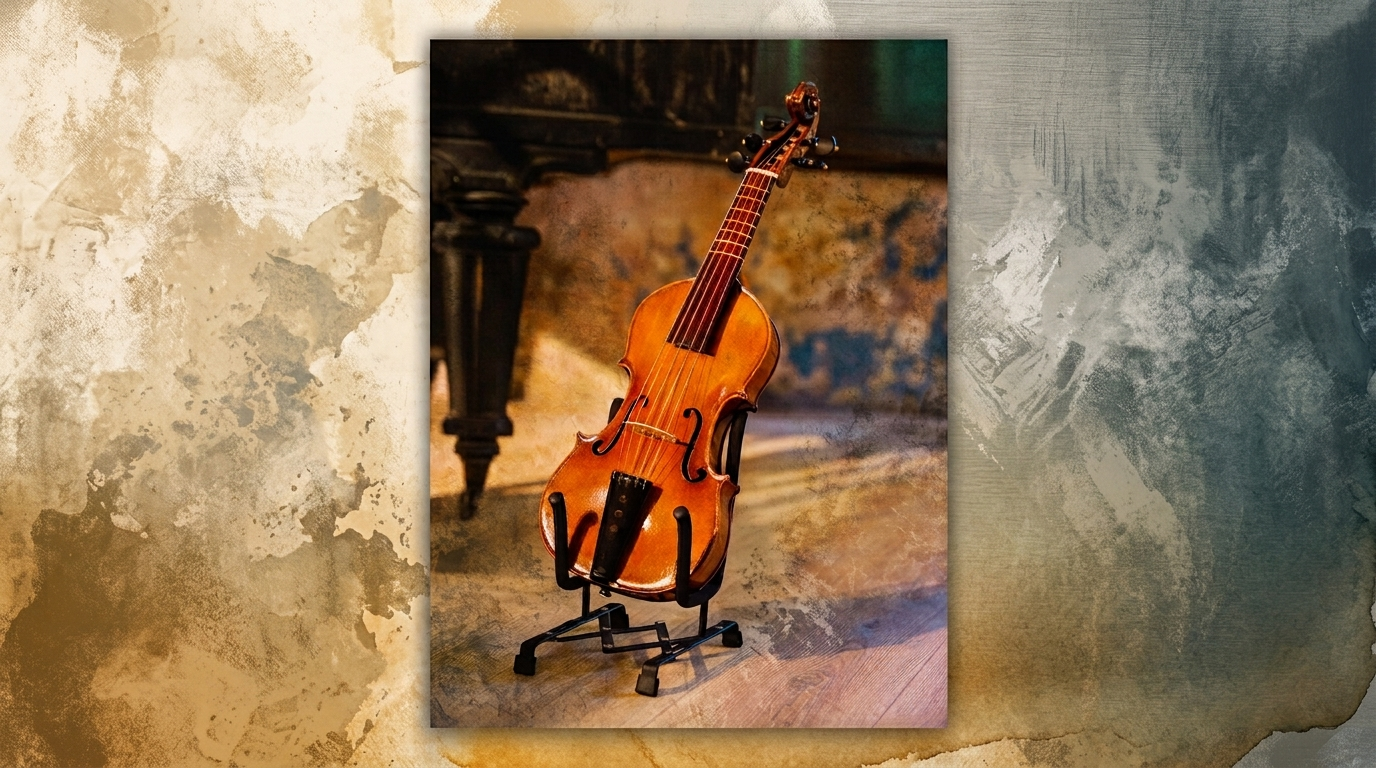
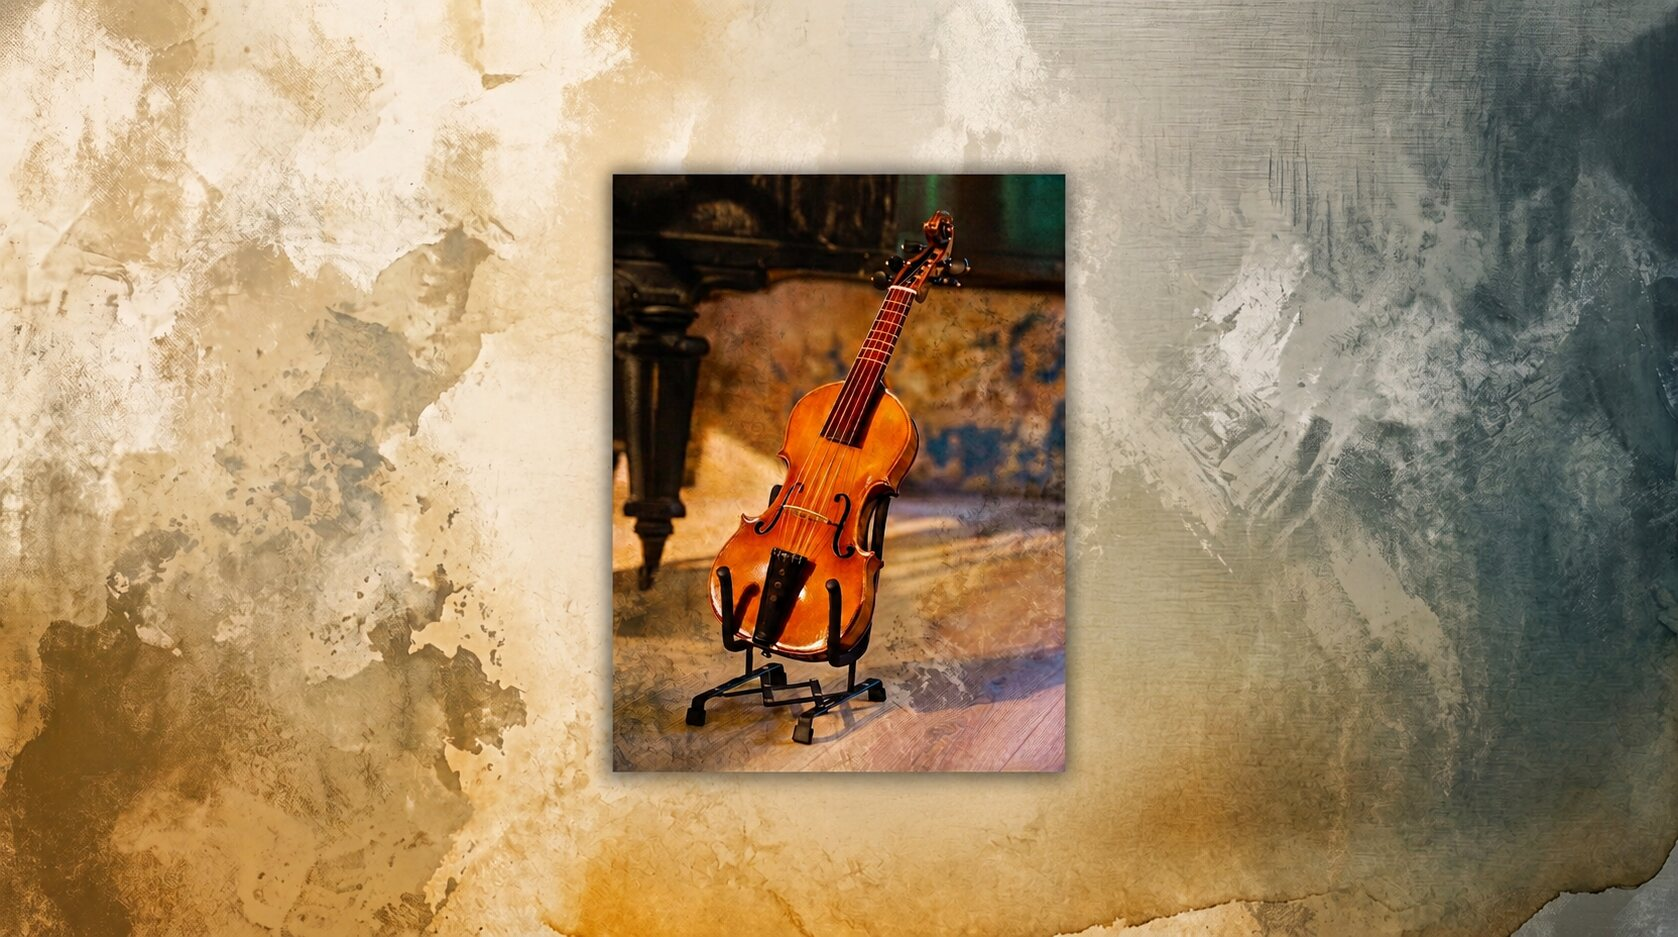
Fix caricamento imgs troppo pesanti

diff --git a/quinton-de.html b/quinton-de.html
@@ -103,7 +103,7 @@
     @media (max-width: 576px) {
       .footer-inner { justify-content: center; text-align: center; }
     }
-    #quinton { background-image: linear-gradient(rgba(23,25,27,0.5), rgba(23,25,27,0.5)), url("imgs/Bianca/Foto/quinton.png"); aspect-ratio: 1678 / 937; min-height: 0; }
+    #quinton { background-image: linear-gradient(rgba(23,25,27,0.5), rgba(23,25,27,0.5)), url("imgs/Bianca/Foto/quinton.jpg"); aspect-ratio: 1678 / 937; min-height: 0; }
     /* Touch ohne Hover (iPad, Android-Tablets, usw.): background-attachment:fixed ist auf
        diesen Geräten unabhängig von der Bildschirmbreite unzuverlässig — Hover-Fähigkeit
        testen statt die Größe jedes Modells zu erraten (die bisherige 1280px-Grenze schloss

diff --git a/quinton-en.html b/quinton-en.html
@@ -102,7 +102,7 @@
     @media (max-width: 576px) {
       .footer-inner { justify-content: center; text-align: center; }
     }
-    #quinton { background-image: linear-gradient(rgba(23,25,27,0.5), rgba(23,25,27,0.5)), url("imgs/Bianca/Foto/quinton.png"); aspect-ratio: 1678 / 937; min-height: 0; }
+    #quinton { background-image: linear-gradient(rgba(23,25,27,0.5), rgba(23,25,27,0.5)), url("imgs/Bianca/Foto/quinton.jpg"); aspect-ratio: 1678 / 937; min-height: 0; }
     /* Touch without hover (iPad, Android tablets, etc.): background-attachment:fixed is
        unreliable on these devices regardless of screen width — test hover capability
        instead of guessing each model's size (the previous 1280px cap excluded e.g. the

diff --git a/quinton-it.html b/quinton-it.html
@@ -102,7 +102,7 @@
     @media (max-width: 576px) {
       .footer-inner { justify-content: center; text-align: center; }
     }
-    #quinton { background-image: linear-gradient(rgba(23,25,27,0.5), rgba(23,25,27,0.5)), url("imgs/Bianca/Foto/quinton.png"); aspect-ratio: 1678 / 937; min-height: 0; }
+    #quinton { background-image: linear-gradient(rgba(23,25,27,0.5), rgba(23,25,27,0.5)), url("imgs/Bianca/Foto/quinton.jpg"); aspect-ratio: 1678 / 937; min-height: 0; }
     /* Touch senza hover (iPad, tablet Android, ecc.): background-attachment:fixed è
        inaffidabile su questi dispositivi qualunque sia la larghezza dello schermo —
        testare la capacità di hover invece di indovinare le dimensioni di ogni modello

diff --git a/index.html b/index.html
@@ -29,7 +29,7 @@
             padding: 0;
             font-family: 'Work Sans', sans-serif;
             font-weight: 300;
-            background: #17191b url('imgs/Bianca/Foto/Foto_sfondo_in_palette.jpg') no-repeat center 20% / cover;
+            background: #17191b url('imgs/Bianca/Foto/Foto_sfondo_in_palette_bg.jpg') no-repeat center 20% / cover;
             color: #fff;
             min-height: 100vh; /* fallback per browser senza dvh */
             min-height: 100dvh; /* più affidabile su mobile: ignora la barra indirizzi che appare/scompare */
